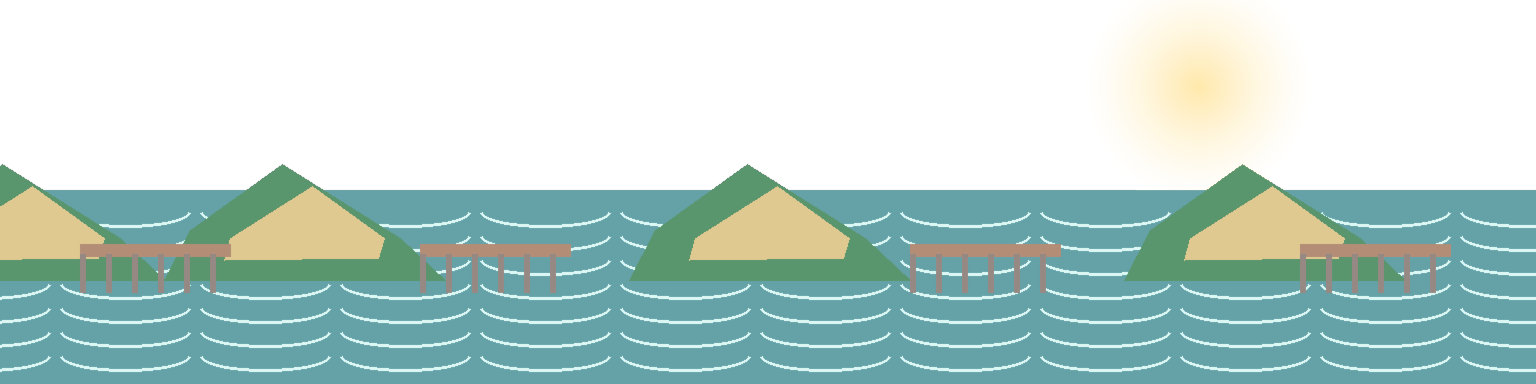
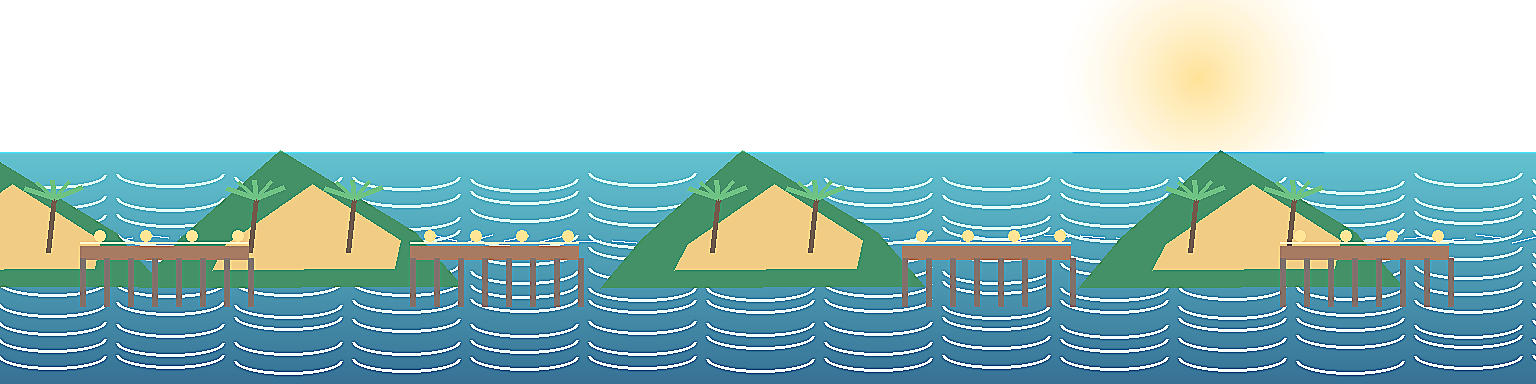
Upgrade coastal arcade art assets

diff --git a/mario-kart-3d/js/game.js b/mario-kart-3d/js/game.js
@@ -1926,9 +1926,10 @@
   function drawBackground(player) {
     const storm = isStormActive();
     const sky = ctx.createLinearGradient(0, 0, 0, height * 0.72);
-    sky.addColorStop(0, storm ? "#07111f" : COLORS.skyTop);
-    sky.addColorStop(0.58, storm ? "#263a52" : "#477f9d");
-    sky.addColorStop(1, storm ? "#47636d" : COLORS.skyBottom);
+    sky.addColorStop(0, storm ? "#07111f" : "#17205d");
+    sky.addColorStop(0.5, storm ? "#263a52" : "#2e80a8");
+    sky.addColorStop(0.78, storm ? "#47636d" : "#ff8f78");
+    sky.addColorStop(1, storm ? "#47636d" : "#ffd17b");
     ctx.fillStyle = sky;
     ctx.fillRect(0, 0, width, height);
 
@@ -2000,9 +2001,9 @@
 
     const storm = isStormActive();
     const cloudHeight = Math.min(height * 0.2, 170);
-    const coastHeight = Math.min(height * 0.34, 270);
-    const skylineHeight = Math.min(height * 0.38, 310);
-    const elementsHeight = Math.min(height * 0.28, 220);
+    const coastHeight = Math.min(height * 0.38, 300);
+    const skylineHeight = Math.min(height * 0.4, 326);
+    const elementsHeight = Math.min(height * 0.3, 238);
 
     if (clouds) {
       drawRepeatingImage(
@@ -2016,17 +2017,17 @@
 
     drawRepeatingImage(
       coast,
-      horizon - coastHeight * 0.4,
+      horizon - coastHeight * 0.45,
       coastHeight,
       player.z * 0.006 + offset * 0.32,
-      storm ? 0.48 : 0.78
+      storm ? 0.52 : 0.92
     );
     drawRepeatingImage(
       skyline,
       horizon - skylineHeight * 0.72,
       skylineHeight,
       player.z * 0.004 + offset * 0.62,
-      storm ? 0.42 : 0.72
+      storm ? 0.44 : 0.82
     );
 
     if (elements) {
@@ -2035,7 +2036,7 @@
         horizon + Math.min(78, height * 0.09) - elementsHeight,
         elementsHeight,
         player.z * 0.014 + offset * 1.12,
-        storm ? 0.46 : 0.86
+        storm ? 0.5 : 0.98
       );
     }
 

diff --git a/mario-kart-3d/build_visual_assets.py b/mario-kart-3d/build_visual_assets.py
@@ -43,15 +43,42 @@ def rounded_rect(draw: ImageDraw.ImageDraw, xy, radius, fill, outline=None, widt
     draw.rounded_rectangle([round(v) for v in xy], radius=round(radius), fill=fill, outline=outline, width=width)
 
 
+def lerp_color(a, b, t):
+    return tuple(round(a[i] + (b[i] - a[i]) * t) for i in range(len(a)))
+
+
+def gradient_rect(draw: ImageDraw.ImageDraw, xy, top, bottom):
+    x1, y1, x2, y2 = [round(v) for v in xy]
+    h = max(1, y2 - y1)
+    for y in range(y1, y2):
+        t = (y - y1) / h
+        draw.line((x1, y, x2, y), fill=lerp_color(top, bottom, t))
+
+
+def add_sheet_shadow(img: Image.Image, offset=(4, 5), blur=3, opacity=94) -> Image.Image:
+    alpha = img.getchannel("A").filter(ImageFilter.GaussianBlur(blur))
+    shadow_alpha = alpha.point(lambda value: int(value * opacity / 255))
+    shadow = Image.new("RGBA", img.size, (0, 0, 0, 0))
+    shadow.putalpha(shadow_alpha)
+    out = Image.new("RGBA", img.size, (0, 0, 0, 0))
+    out.paste(shadow, offset, shadow)
+    out.alpha_composite(img)
+    return out
+
+
 def draw_asphalt(draw: ImageDraw.ImageDraw, ox: int, oy: int, wet=False, cracked=False):
-    base = (68, 72, 78, 255) if not wet else (46, 58, 66, 255)
-    rect(draw, (ox, oy, ox + 64, oy + 64), base)
+    top = (86, 89, 92, 255) if not wet else (48, 68, 82, 255)
+    bottom = (50, 54, 60, 255) if not wet else (32, 46, 58, 255)
+    gradient_rect(draw, (ox, oy, ox + 64, oy + 64), top, bottom)
     for _ in range(120):
         x = ox + random.randrange(64)
         y = oy + random.randrange(64)
         tone = random.randint(-22, 18)
+        base = lerp_color(top, bottom, y / 64)
         col = (clamp(base[0] + tone), clamp(base[1] + tone), clamp(base[2] + tone), 120)
         rect(draw, (x, y, x + random.randrange(1, 4), y + 1), col)
+    for y in (11, 27, 44, 58):
+        draw.line((ox, oy + y, ox + 64, oy + y + random.choice([-1, 0, 1])), fill=(255, 245, 205, 24), width=1)
     if wet:
         for i in range(5):
             y = oy + 8 + i * 11
@@ -82,8 +109,9 @@ def draw_curb(draw: ImageDraw.ImageDraw, ox: int, oy: int):
 
 
 def draw_grass(draw: ImageDraw.ImageDraw, ox: int, oy: int, dark=False):
-    base = (36, 118, 68, 255) if not dark else (28, 92, 56, 255)
-    rect(draw, (ox, oy, ox + 64, oy + 64), base)
+    top = (53, 151, 77, 255) if not dark else (34, 106, 70, 255)
+    bottom = (23, 97, 58, 255) if not dark else (20, 74, 50, 255)
+    gradient_rect(draw, (ox, oy, ox + 64, oy + 64), top, bottom)
     for i in range(18):
         x = ox + random.randrange(64)
         y = oy + random.randrange(64)
@@ -93,8 +121,8 @@ def draw_grass(draw: ImageDraw.ImageDraw, ox: int, oy: int, dark=False):
 
 
 def draw_sand(draw: ImageDraw.ImageDraw, ox: int, oy: int):
-    base = (218, 190, 120, 255)
-    rect(draw, (ox, oy, ox + 64, oy + 64), base)
+    base = (234, 195, 112, 255)
+    gradient_rect(draw, (ox, oy, ox + 64, oy + 64), (249, 222, 151, 255), (197, 151, 78, 255))
     for _ in range(80):
         x = ox + random.randrange(64)
         y = oy + random.randrange(64)
@@ -106,7 +134,7 @@ def draw_sand(draw: ImageDraw.ImageDraw, ox: int, oy: int):
 
 
 def draw_water(draw: ImageDraw.ImageDraw, ox: int, oy: int):
-    rect(draw, (ox, oy, ox + 64, oy + 64), (33, 125, 149, 255))
+    gradient_rect(draw, (ox, oy, ox + 64, oy + 64), (39, 168, 185, 255), (16, 79, 121, 255))
     for y in range(6, 64, 9):
         for x in range(-8, 72, 18):
             draw.arc((ox + x, oy + y - 4, ox + x + 18, oy + y + 7), 8, 170, fill=(105, 219, 216, 95), width=2)
@@ -181,6 +209,7 @@ def build_tileset():
         for col in range(8):
             fn = [draw_asphalt, draw_grass, draw_sand, draw_water, draw_curb, draw_city_tile, draw_cliff, draw_start][(row + col) % 8]
             fn(draw, col * 64, row * 64)
+    img = img.filter(ImageFilter.UnsharpMask(radius=1.0, percent=130, threshold=3))
     img.save(OUT / "turbo-rally-tileset.png")
 
 
@@ -195,19 +224,33 @@ def build_coast_layer():
     w, h = 1536, 384
     img = Image.new("RGBA", (w, h), (0, 0, 0, 0))
     draw = ImageDraw.Draw(img, "RGBA")
-    draw_glow(draw, int(w * 0.78), 86, 120, (255, 205, 70, 120))
-    rect(draw, (0, 190, w, h), (23, 116, 125, 170))
-    for y in range(205, 365, 24):
-        for x in range(-80, w + 80, 140):
-            draw.arc((x, y - 9, x + 130, y + 22), 4, 176, fill=(118, 225, 213, 64), width=3)
-    for base_x in (-90, 190, 655, 1150, w + 190):
-        polygon(draw, [(base_x, 230), (base_x + 92, 164), (base_x + 210, 238), (base_x + 255, 280), (base_x - 26, 280)], (54, 126, 78, 210))
-        polygon(draw, [(base_x + 40, 238), (base_x + 122, 186), (base_x + 194, 238), (base_x + 188, 258), (base_x + 34, 260)], (211, 180, 102, 185))
-    for base_x in (80, 420, 910, 1300):
-        rect(draw, (base_x, 244, base_x + 150, 256), (151, 98, 68, 185))
-        for p in range(0, 156, 26):
-            rect(draw, (base_x + p, 254, base_x + p + 5, 292), (77, 53, 44, 150))
-    img = img.filter(ImageFilter.GaussianBlur(0.35))
+    draw_glow(draw, int(w * 0.78), 78, 145, (255, 202, 68, 145))
+    gradient_rect(draw, (0, 152, w, h), (42, 172, 190, 188), (12, 83, 126, 210))
+    for y in range(170, 365, 18):
+        alpha = max(26, 104 - int((y - 170) * 0.25))
+        for x in range(-120, w + 120, 118):
+            wiggle = random.randint(-4, 4)
+            draw.arc((x, y - 8 + wiggle, x + 108, y + 20 + wiggle), 4, 176, fill=(151, 238, 223, alpha), width=3)
+    for x in range(0, w, 36):
+        draw.line((x, 238 + random.randint(-4, 4), x + 24, 238 + random.randint(-4, 4)), fill=(255, 228, 128, 32), width=2)
+
+    for base_x in (-120, 180, 642, 1120, w + 180):
+        polygon(draw, [(base_x, 238), (base_x + 100, 150), (base_x + 235, 232), (base_x + 282, 286), (base_x - 42, 288)], (42, 130, 82, 224))
+        polygon(draw, [(base_x + 46, 244), (base_x + 132, 184), (base_x + 220, 240), (base_x + 214, 268), (base_x + 32, 270)], (238, 191, 101, 204))
+        for palm_x in (base_x + 70, base_x + 168):
+            draw.line((palm_x, 252, palm_x + 6, 198), fill=(84, 55, 36, 210), width=5)
+            for i in range(5):
+                ang = -2.6 + i * 0.5
+                draw.line((palm_x + 6, 198, palm_x + 6 + math.cos(ang) * 35, 198 + math.sin(ang) * 18), fill=(55, 171, 85, 185), width=5)
+
+    for base_x in (80, 410, 902, 1280):
+        rect(draw, (base_x, 246, base_x + 168, 259), (144, 90, 58, 204))
+        draw.line((base_x, 242, base_x + 168, 242), fill=(255, 226, 134, 118), width=2)
+        for p in range(0, 176, 24):
+            rect(draw, (base_x + p, 258, base_x + p + 5, 306), (72, 49, 40, 176))
+        for p in range(14, 160, 46):
+            ellipse(draw, (base_x + p, 230, base_x + p + 11, 241), (255, 210, 74, 150))
+    img = img.filter(ImageFilter.GaussianBlur(0.22)).filter(ImageFilter.UnsharpMask(radius=1.0, percent=120, threshold=3))
     img.save(OUT / "backdrop-coast.png")
 
 
@@ -224,18 +267,20 @@ def build_skyline_layer():
     w, h = 1536, 384
     img = Image.new("RGBA", (w, h), (0, 0, 0, 0))
     draw = ImageDraw.Draw(img, "RGBA")
-    # Repeatable mountain silhouettes.
     for base in (-260, 260, 780, 1300):
-        polygon(draw, [(base, 310), (base + 210, 126), (base + 390, 314)], (20, 41, 47, 235))
-        polygon(draw, [(base + 150, 312), (base + 365, 80), (base + 620, 320)], (24, 48, 54, 230))
+        polygon(draw, [(base, 320), (base + 210, 126), (base + 390, 320)], (14, 36, 55, 218))
+        polygon(draw, [(base + 150, 318), (base + 365, 80), (base + 620, 324)], (22, 46, 68, 226))
+        polygon(draw, [(base + 230, 318), (base + 426, 142), (base + 710, 326)], (45, 74, 82, 130))
     ground = 342
     x = -20
     while x < w + 80:
         bw = random.randint(38, 76)
         bh = random.randint(62, 170)
-        fill = random.choice([(180, 181, 159, 178), (132, 147, 139, 188), (92, 123, 131, 170)])
+        fill = random.choice([(190, 187, 166, 194), (121, 150, 151, 202), (83, 121, 147, 186), (207, 160, 138, 160)])
         light = random.choice([(55, 220, 198, 150), (255, 210, 74, 142), (245, 247, 235, 120)])
         building(draw, x, ground, bw, bh, fill, light)
+        if random.random() < 0.22:
+            rect(draw, (x + 4, ground - bh - 8, x + bw - 4, ground - bh - 3), (255, 111, 95, 125))
         x += bw + random.randint(4, 18)
     for palm_x in (68, 270, 615, 1040, 1390):
         draw.line((palm_x, ground, palm_x + 9, ground - 66), fill=(31, 71, 54, 220), width=6)
@@ -244,7 +289,10 @@ def build_skyline_layer():
             ex = palm_x + 9 + math.cos(ang) * 46
             ey = ground - 66 + math.sin(ang) * 23
             draw.line((palm_x + 9, ground - 66, ex, ey), fill=(51, 163, 86, 210), width=8)
-    img = img.filter(ImageFilter.GaussianBlur(0.25))
+    for sign_x in (178, 560, 970, 1260):
+        rounded_rect(draw, (sign_x, ground - 96, sign_x + 76, ground - 66), 5, (14, 18, 20, 160), (255, 210, 74, 110), 2)
+        polygon(draw, [(sign_x + 50, ground - 89), (sign_x + 65, ground - 81), (sign_x + 50, ground - 73)], (55, 220, 198, 150))
+    img = img.filter(ImageFilter.GaussianBlur(0.18)).filter(ImageFilter.UnsharpMask(radius=1.0, percent=115, threshold=4))
     img.save(OUT / "backdrop-skyline.png")
 
 
@@ -261,14 +309,14 @@ def build_cloud_layer():
     img = Image.new("RGBA", (w, h), (0, 0, 0, 0))
     draw = ImageDraw.Draw(img, "RGBA")
     for x, y, scale, alpha in (
-        (-80, 74, 0.78, 54),
-        (190, 46, 0.58, 46),
-        (450, 92, 0.9, 42),
-        (800, 38, 0.64, 50),
-        (1110, 82, 0.84, 44),
-        (1420, 54, 0.7, 48),
+        (-80, 74, 0.82, 64),
+        (190, 46, 0.62, 58),
+        (450, 92, 0.96, 50),
+        (800, 38, 0.68, 60),
+        (1110, 82, 0.88, 54),
+        (1420, 54, 0.75, 58),
     ):
-        cloud_puff(draw, x, y, scale, (235, 224, 202, alpha))
+        cloud_puff(draw, x, y, scale, (255, 220, 196, alpha))
     for _ in range(26):
         x = random.randint(0, w)
         y = random.randint(20, h - 30)
@@ -285,6 +333,7 @@ def draw_sailboat(draw: ImageDraw.ImageDraw, x: int, y: int, scale: float, alpha
     draw.line((x + 35 * scale, y, x + 35 * scale, y - 66 * scale), fill=(35, 42, 41, alpha), width=max(1, round(3 * scale)))
     polygon(draw, [(x + 39 * scale, y - 62 * scale), (x + 39 * scale, y - 8 * scale), (x + 82 * scale, y - 8 * scale)], sail)
     polygon(draw, [(x + 31 * scale, y - 54 * scale), (x + 31 * scale, y - 8 * scale), (x - 7 * scale, y - 8 * scale)], accent)
+    draw.line((x - 12 * scale, y + 18 * scale, x + 92 * scale, y + 16 * scale), fill=(118, 225, 213, max(0, alpha - 110)), width=max(1, round(2 * scale)))
 
 
 def draw_lighthouse(draw: ImageDraw.ImageDraw, x: int, base: int, scale: float):
@@ -318,9 +367,13 @@ def build_horizon_elements_layer():
     img = Image.new("RGBA", (w, h), (0, 0, 0, 0))
     draw = ImageDraw.Draw(img, "RGBA")
     base = 260
-    # Soft waterline silhouettes that can repeat without a hard seam.
     for x in range(-60, w + 80, 180):
         draw.line((x, base + 16, x + 118, base + 16 + random.randint(-2, 3)), fill=(118, 225, 213, 58), width=2)
+    for x in range(-20, w + 160, 260):
+        rect(draw, (x, base + 38, x + 170, base + 48), (116, 72, 48, 136))
+        draw.line((x, base + 33, x + 170, base + 33), fill=(255, 210, 74, 82), width=2)
+        for p in range(0, 180, 30):
+            rect(draw, (x + p, base + 46, x + p + 6, base + 88), (74, 50, 40, 118))
     draw_lighthouse(draw, 76, base + 10, 0.78)
     draw_bridge(draw, 340, base - 10, 0.72, 154)
     draw_bridge(draw, 1160, base - 4, 0.62, 136)
@@ -329,10 +382,11 @@ def build_horizon_elements_layer():
     draw_sailboat(draw, 1348, base + 21, 0.64, 164)
     for x, y, s in ((590, base + 28, 0.75), (1014, base + 22, 0.58), (1486, base + 30, 0.68), (30, base + 34, 0.52)):
         draw_buoy(draw, x, y, s, 190)
-    for x in (510, 880, 1070):
-        rect(draw, (x, base - 62, x + 84, base - 18), (18, 22, 21, 170), (255, 210, 74, 120), 2)
+    for x in (510, 880, 1070, 1510):
+        rounded_rect(draw, (x, base - 66, x + 92, base - 18), 7, (18, 22, 21, 178), (255, 210, 74, 138), 2)
         polygon(draw, [(x + 48, base - 52), (x + 68, base - 40), (x + 48, base - 28)], (55, 220, 198, 180))
-    img = img.filter(ImageFilter.GaussianBlur(0.18))
+        draw_glow(draw, x + 58, base - 42, 34, (55, 220, 198, 48))
+    img = img.filter(ImageFilter.GaussianBlur(0.14)).filter(ImageFilter.UnsharpMask(radius=1.0, percent=120, threshold=3))
     img.save(OUT / "backdrop-horizon-elements.png")
 
 
@@ -349,9 +403,12 @@ def draw_turbo_icon(draw, ox, oy):
 
 
 def draw_box(draw, ox, oy):
-    rect(draw, (ox + 30, oy + 32, ox + 96, oy + 98), (255, 210, 74, 245), (20, 20, 16, 220), 4)
-    rect(draw, (ox + 40, oy + 42, ox + 86, oy + 88), (38, 45, 42, 225), (245, 247, 235, 90), 2)
-    draw.line((ox + 46, oy + 52, ox + 80, oy + 78), fill=(55, 220, 198, 220), width=5)
+    polygon(draw, [(ox + 31, oy + 36), (ox + 84, oy + 26), (ox + 101, oy + 42), (ox + 48, oy + 53)], (255, 236, 122, 245), (20, 20, 16, 210))
+    polygon(draw, [(ox + 84, oy + 26), (ox + 101, oy + 42), (ox + 97, oy + 94), (ox + 82, oy + 105)], (224, 139, 44, 245), (20, 20, 16, 210))
+    polygon(draw, [(ox + 31, oy + 36), (ox + 48, oy + 53), (ox + 45, oy + 105), (ox + 28, oy + 89)], (238, 169, 54, 245), (20, 20, 16, 210))
+    rect(draw, (ox + 47, oy + 53, ox + 97, oy + 105), (255, 210, 74, 245), (20, 20, 16, 220), 4)
+    rect(draw, (ox + 58, oy + 62, ox + 86, oy + 91), (38, 45, 42, 225), (245, 247, 235, 90), 2)
+    draw.line((ox + 61, oy + 68, ox + 82, oy + 86), fill=(55, 220, 198, 220), width=5)
 
 
 def draw_puddle(draw, ox, oy):
@@ -370,6 +427,7 @@ def draw_lamp(draw, ox, oy):
     rect(draw, (ox + 50, oy + 100, ox + 78, oy + 112), (34, 44, 45, 245))
     draw_glow(draw, ox + 64, oy + 35, 42, (255, 210, 74, 105))
     ellipse(draw, (ox + 50, oy + 22, ox + 78, oy + 52), (255, 210, 74, 240), (44, 50, 47, 225), 3)
+    draw.line((ox + 58, oy + 26, ox + 70, oy + 48), fill=(255, 245, 178, 120), width=2)
 
 
 def draw_palm(draw, ox, oy):
@@ -686,6 +744,8 @@ def build_props():
     ]
     for i, fn in enumerate(fns):
         fn(draw, (i % 8) * 128, (i // 8) * 128)
+    img = add_sheet_shadow(img, offset=(4, 5), blur=3, opacity=82)
+    img = img.filter(ImageFilter.UnsharpMask(radius=1.0, percent=140, threshold=3))
     img.save(OUT / "design-props.png")
 
 
